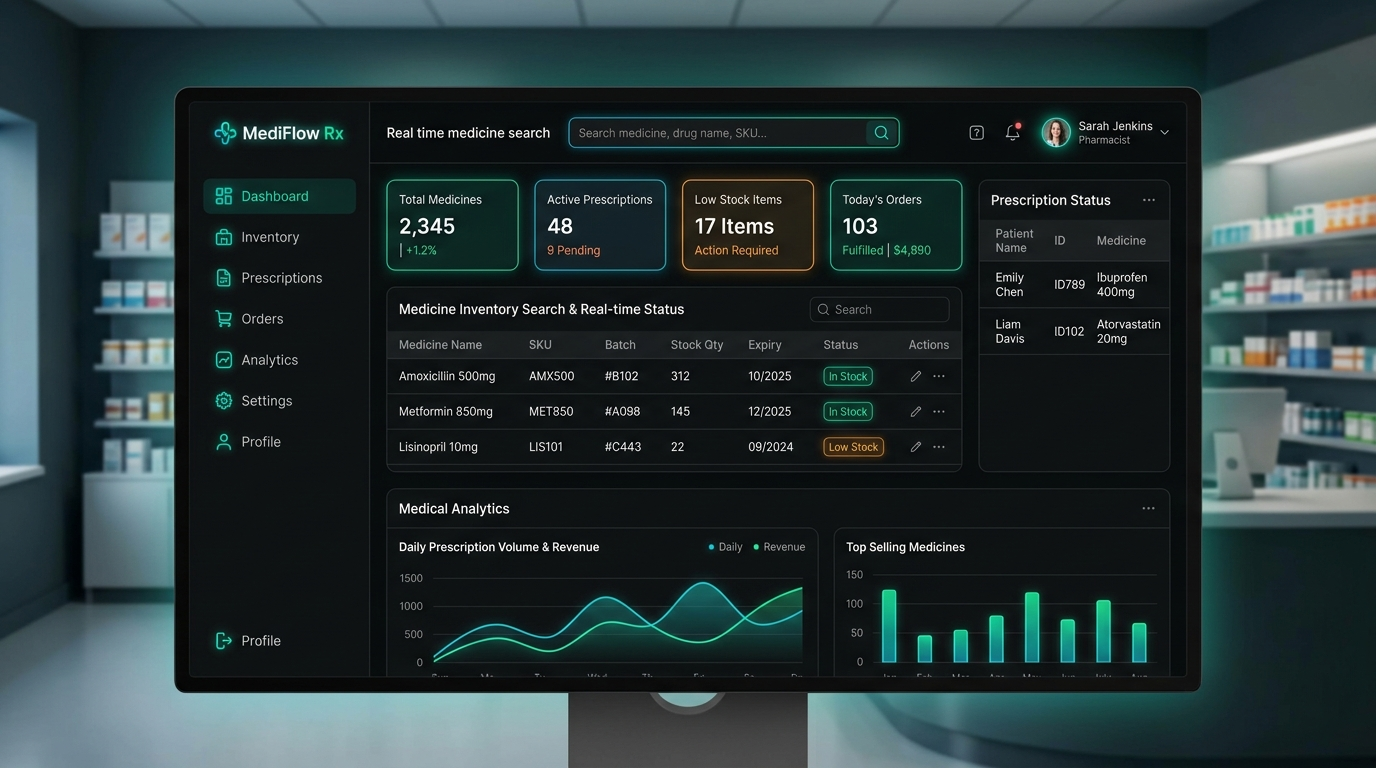
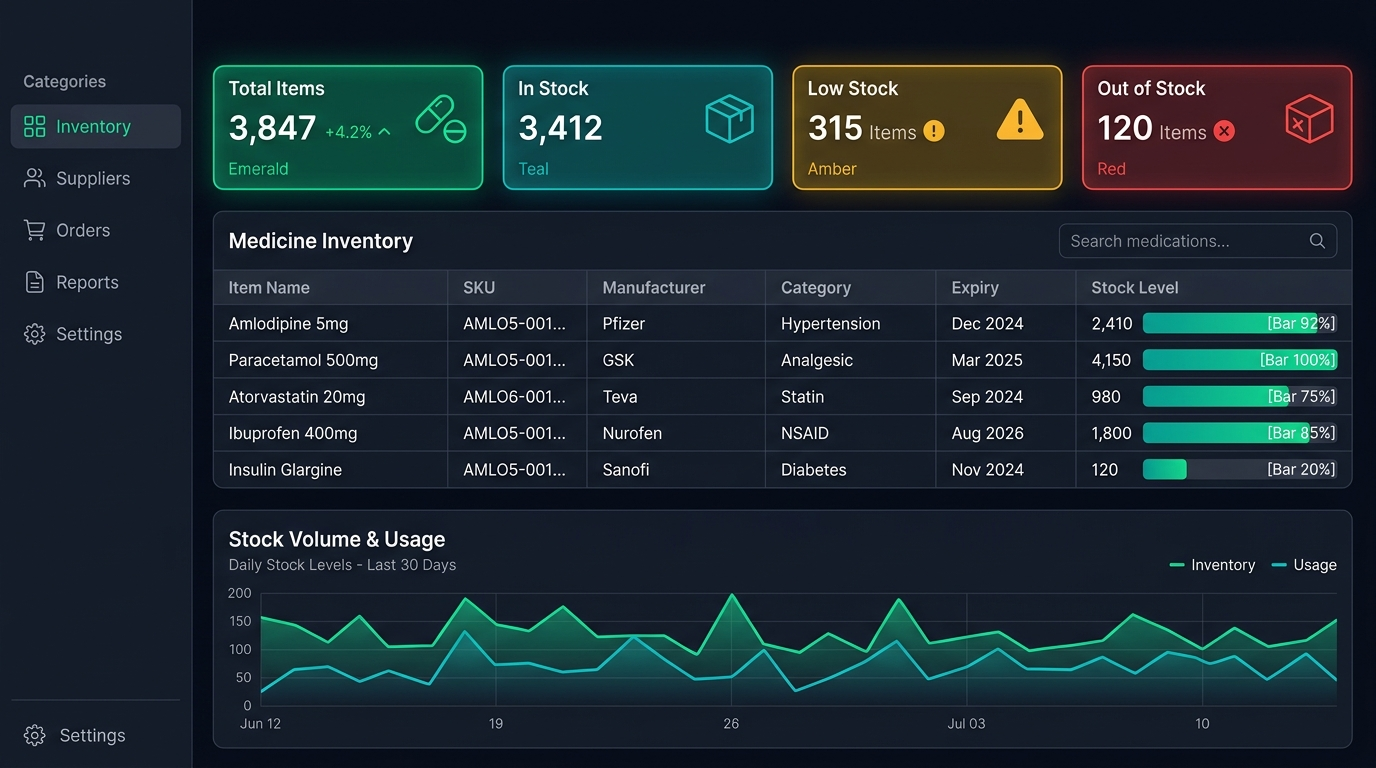
updated my education part

diff --git a/frontend/src/data/education.ts b/frontend/src/data/education.ts
@@ -4,8 +4,15 @@ export const educationData: EducationItem[] = [
   {
     degree: 'BSc (Hons) Software Engineering',
     institution: 'NSBM Green University',
-    location: 'Sri Lanka',
+    location: '2025 – 2028 (3rd Year)',
     description:
-      'Specializing in Software Verification, ADBMS, Mobile Application Development & Security.',
+      'Specializing in Software Verification, ADBMS, Mobile Application Development & Full-Stack Web Architecture.',
+  },
+  {
+    degree: 'IT & English Dual Diploma / Certificate Course',
+    institution: 'IDM Eastern Campus',
+    location: '2023',
+    description:
+      'Comprehensive dual diploma course covering core Information Technology concepts, computer software applications, and professional English communication skills.',
   },
 ];

diff --git a/frontend/src/data/experience.ts b/frontend/src/data/experience.ts
@@ -2,10 +2,10 @@ import type { ExperienceItem } from '../types';
 
 export const experienceData: ExperienceItem[] = [
   {
-    role: 'Data Entry Freelancer',
-    company: 'FREELANCE',
-    type: 'REMOTE',
+    role: 'Software Engineering Undergraduate',
+    company: 'NSBM GREEN UNIVERSITY',
+    type: 'STUDENT · IN PROGRESS',
     description:
-      'Managed structured database operations, CRM tools, and client data processing.',
+      'Currently progressing into 3rd year Software Engineering studies with hands-on learning in React, TypeScript, Spring Boot, REST APIs, SQL databases, and software QA testing.',
   },
 ];

diff --git a/frontend/src/components/Hero.tsx b/frontend/src/components/Hero.tsx
@@ -16,7 +16,7 @@ export const Hero: React.FC<HeroProps> = ({ onOpenDemoModal, activeSection }) =>
       {/* Left Hero Typography & Actions */}
       <div className="hero-left">
         <div className="hero-eyebrow">
-          <span>FULL-STACK SOFTWARE ENGINEER</span>
+          <span>Undergraduate at NSBM Green University</span>
         </div>
 
         <div className="title-container">
